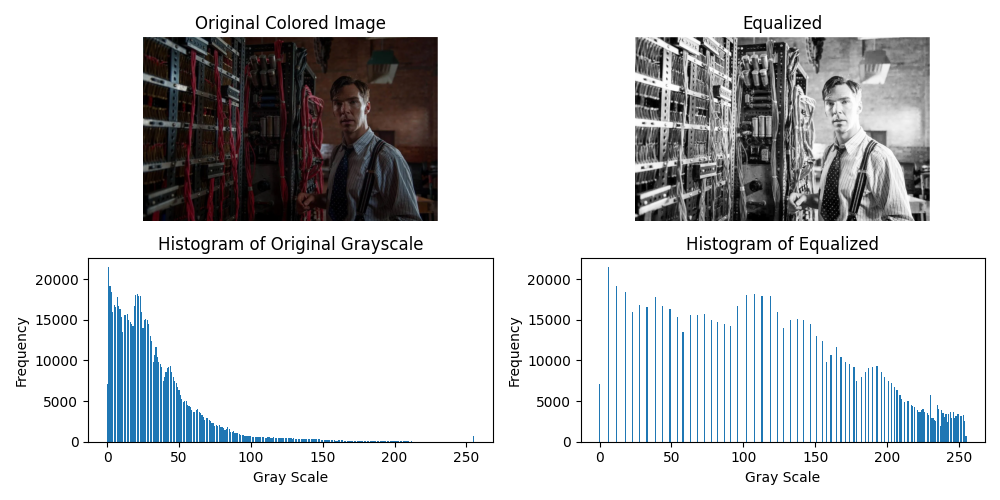
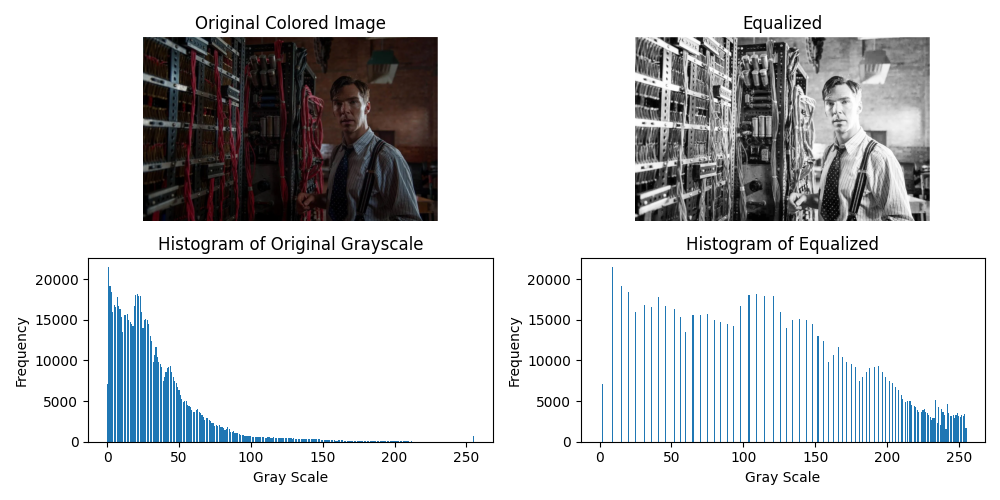
Refind Histogram Equalization with normalized pdf

Changed region(s): [[0.589, 0.57, 0.961, 0.9]]

diff --git a/main.py b/main.py
@@ -1,7 +1,7 @@
 from cv2 import imread, cvtColor, COLOR_BGR2RGB, COLOR_BGR2GRAY, COLOR_GRAY2RGB, GaussianBlur, imshow, normalize, NORM_MINMAX, threshold, THRESH_BINARY, namedWindow, createTrackbar, imwrite
 from sys import argv
 from matplotlib.pyplot import subplots, tight_layout, savefig, show
-from numpy import histogram, array, zeros, zeros_like, where, sum
+from numpy import histogram, array, zeros, zeros_like, where, sum, round
 from numpy.ma import masked_equal, filled
 
 def apply_threshold(lb):
@@ -32,15 +32,11 @@ if __name__ == '__main__':
     axes[1][0].set_title('Histogram of Original Grayscale')
 
     # Histogram Equalization
-    cdf = y.cumsum() # cumulative sum
-    cdf_m = masked_equal(cdf, 0) # exclude 0
-    # Normalization:
-    # For each cdf_m element, subtract it with the minimum of cdf_m, multiply it with 255, and
-    # divide it with the range of cdf_m.
-    cdf_m = (cdf_m - cdf_m.min()) * 255 / (cdf_m.max() - cdf_m.min())
-    cdf = filled(cdf_m, 0).astype('uint8') # Give the 0 back.
+    pdf = y / sum(y)
+    y_normalized = pdf * 255
+    cdf = round(y_normalized.cumsum()).astype('uint8')
 
-    # Now, Histogram Equalization of cimg is cdf[cimg].
+    # Now, cdf can act like a map, so the Histogram Equalization of cimg is cdf[cimg].
     img = cdf[cimg]
     axes[0][1].imshow(cvtColor(img, COLOR_GRAY2RGB))
     axes[0][1].set_title('Equalized')

diff --git a/README.md b/README.md
@@ -57,18 +57,15 @@ First, I simply read in the input image, show it, convert it to grayscale, and m
     axes[1][0].set_title('Histogram of Original Grayscale')
 ```
 
-Then, I apply the Histogram Equalization.
+Then, I apply the Histogram Equalization by
 
 ```python
-    cdf = y.cumsum() # cumulative sum
-    cdf_m = masked_equal(cdf, 0) # exclude 0
-    # Normalization:
-    # For each cdf_m element, subtract it with the minimum of cdf_m, multiply it with 255, and
-    # divide it with the range of cdf_m.
-    cdf_m = (cdf_m - cdf_m.min()) * 255 / (cdf_m.max() - cdf_m.min())
-    cdf = filled(cdf_m, 0).astype('uint8') # Give the 0 back.
+    # Histogram Equalization
+    pdf = y / sum(y)
+    y_normalized = pdf * 255
+    cdf = round(y_normalized.cumsum()).astype('uint8')
 
-    # Now, Histogram Equalization of cimg is cdf[cimg].
+    # Now, cdf can act like a map, so the Histogram Equalization of cimg is cdf[cimg].
     img = cdf[cimg]
     axes[0][1].imshow(cvtColor(img, COLOR_GRAY2RGB))
     axes[0][1].set_title('Equalized')
@@ -92,7 +89,7 @@ The result looks like this
 
 ## Edge Detection
 
-After the image was histogram equalized, I apply Edge Detection by smoothing it, convolute it with sobel x and sobel y matrices, and normalize it.
+After the image was histogram equalized, I apply Edge Detection by smoothing it, convolute it with sobel x and sobel y matrices, prevent it from overflowing, and normalize it.
 
 ```python
     # Edge Detection
